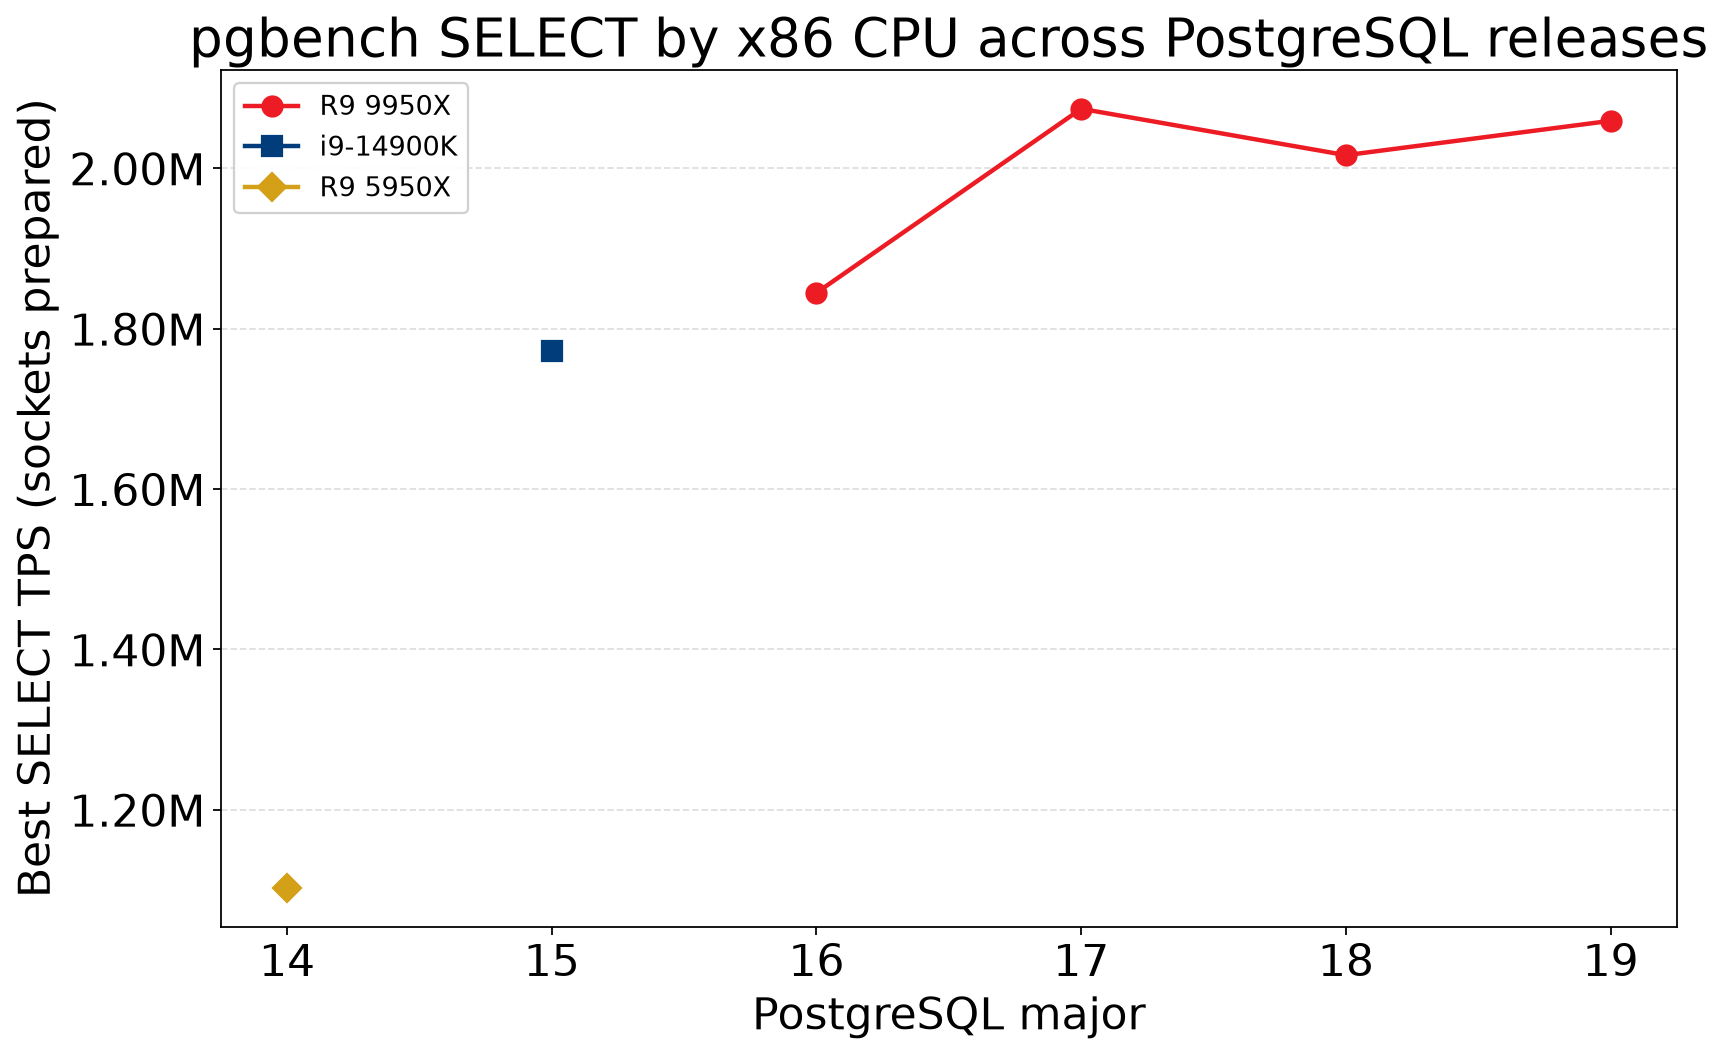
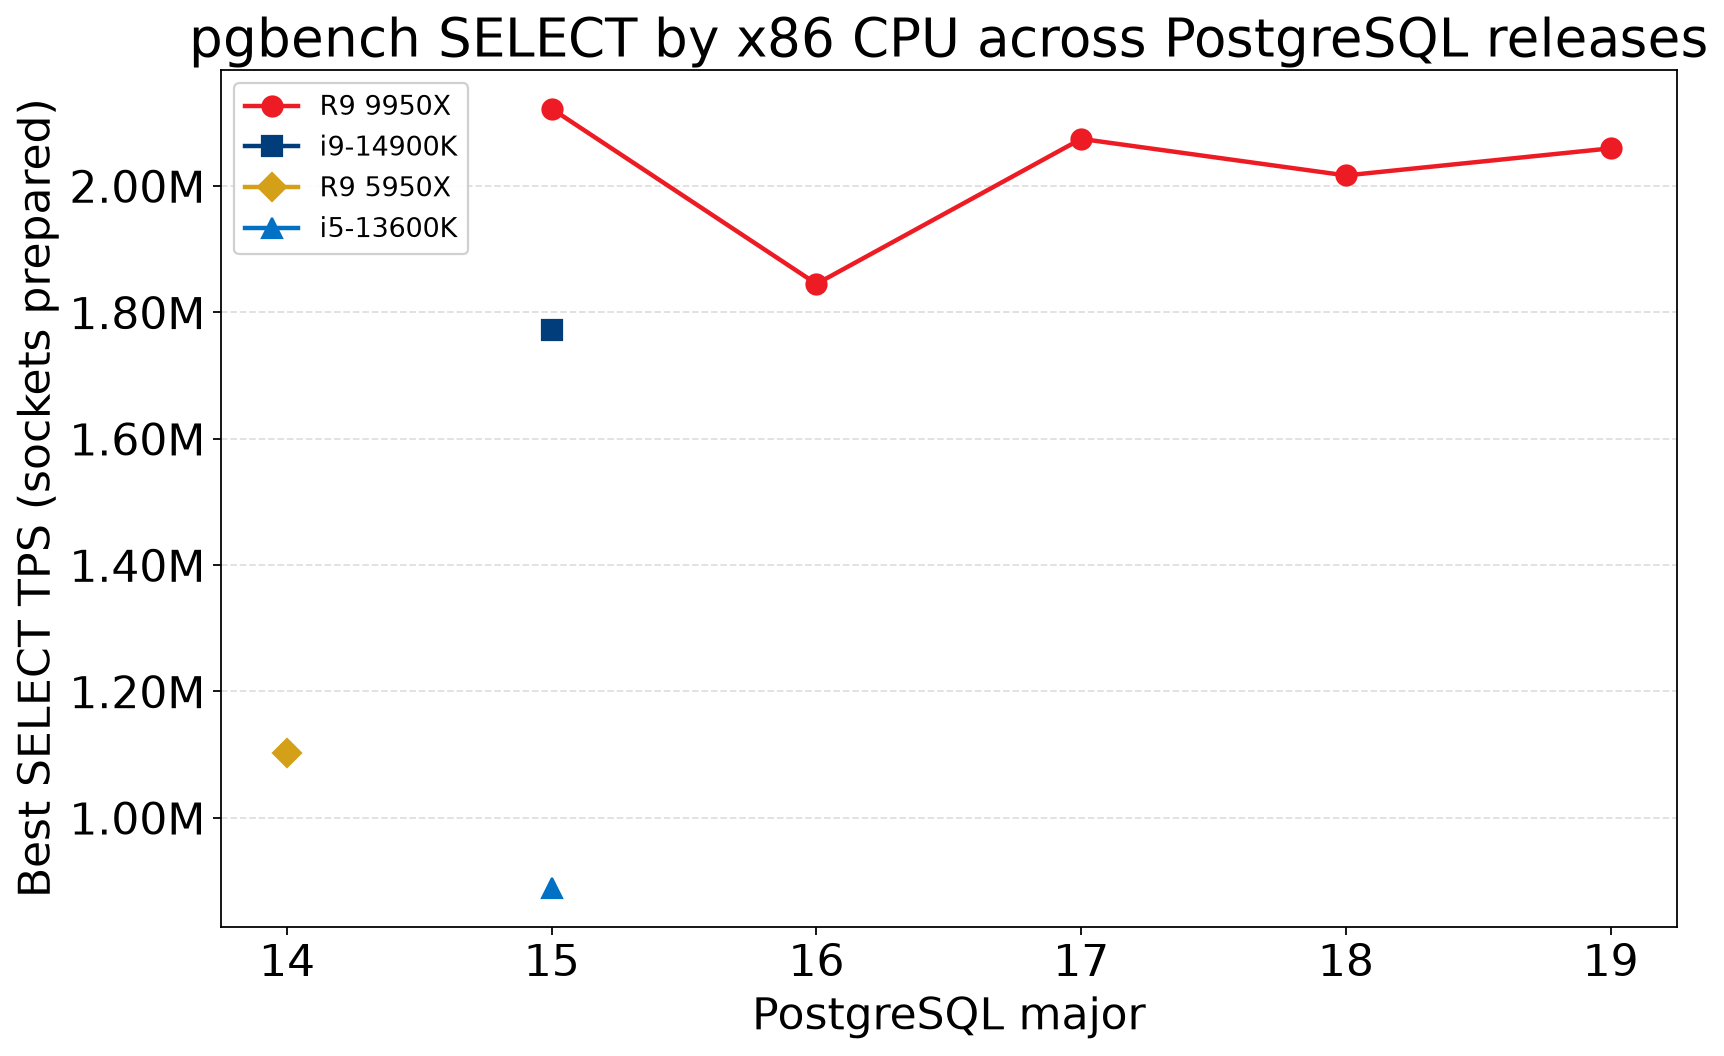
Replace SELECT history placeholders with siren 15–19 peaks.
Chart and leaderboards now use real sockets-prepared TPS; SQL reads tests after download. Note PG15’s fantasy-face win, and document mid-cycle publish framing for shared_buffers retunes.

diff --git a/reports/select-history.py b/reports/select-history.py
@@ -5,7 +5,8 @@ pgbench SELECT TPS history by CPU across PostgreSQL majors.
 Only the sockets-prepared face — matching the public leaderboard cell.
 Face comes from tests.conn_method when present, else from set/batch names
 (older archives had no conn column). CPU labels reuse the OSM history
-reconstruction rules.
+reconstruction rules. SQL reads tests/testset directly (after ./download);
+a submission rebuild is not required for this chart.
 
 Usage:
   MPLBACKEND=Agg MPLCONFIGDIR="$PWD/.matplotlib-cache" \\
@@ -70,34 +71,16 @@ CPU_COLORS: dict[str, str] = {
 
 MARKERS = ("o", "s", "D", "^", "v", "P", "X", "*", "h", "p")
 
-# Provisional sockets-prepared peaks until the matching set lands in results.
-# Dropped automatically once a real row exists for the same cpu × major.
-PLACEHOLDER_POINTS: list[dict] = [
-    {
-        "cpu_hist": "R9 9950X",
-        "major": 16,
-        "tps": 1_844_854,
-        "server": "siren",
-        "batch_id": None,
-        "batch": "placeholder PG16 sockets prepared",
-        "conn": "sockets prepared",
-    },
-    {
-        "cpu_hist": "R9 9950X",
-        "major": 17,
-        "tps": 2_074_343,
-        "server": "siren",
-        "batch_id": None,
-        "batch": "placeholder PG17 sockets prepared",
-        "conn": "sockets prepared",
-    },
-]
+# Optional provisional points if a cpu × major cell is still missing from
+# results. Empty once siren four-face SELECT covers 15–19 (2026-10-26).
+PLACEHOLDER_POINTS: list[dict] = []
 
 # Omit from the published higher-highs chart (archives kept; see Leaderboards note).
-# (cpu_hist, major) — known-bad logging tax; suspect old twilight pin.
+# (cpu_hist, major) — known-bad logging tax; suspect old twilight pin (siren
+# PG16 four-face is the modern 16 point now).
 SKIP_CPU_MAJOR: set[tuple[str, int]] = {
     ("R9 5950X", 15),  # log_min_duration_statement=0 false negative
-    ("i9-14900K", 16),  # suspect; replace with siren four-face when collected
+    ("i9-14900K", 16),  # suspect archive; siren 9950X PG16 replaces it on the chart
 }
 
 

diff --git a/.agents/skills/pg-release-runs/SKILL.md b/.agents/skills/pg-release-runs/SKILL.md
@@ -11,6 +11,29 @@ disable-model-invocation: true
 
 # Release study runs
 
+## Publish cycle (two snapshots)
+
+The public cadence is roughly **two years between “middle” study campaigns**,
+with two getbent.io snapshots per major:
+
+1. **Release snapshot** — fair, unified configs (same `shared_buffers`,
+   durability corners, SELECT faces) so CPUs and majors compare cleanly.
+   19rc1 is that snapshot for PG19.
+2. **Mid-cycle studies** — *after* that release snapshot, still inside the
+   publish cycle: GUC retunes, OS upgrades, hardware swaps, Planet refresh,
+   packing experiments. This is where `shared_buffers` 48→32 and Study 3
+   belong. A new Ubuntu/Debian release can eat most of a mid-cycle (years
+   that have one). PG18’s mid-cycle was largely the multi-process GIS /
+   osm2pgsql fallout, so little else moved.
+3. **Final snapshot** — before the next major’s release work; freeze what
+   the mid-cycle learned. These skills came online while Greg was finishing
+   the **PG18 final snapshot**; they document a cycle that was already in
+   motion.
+
+“Post release-snapshot” **is** mid-publish, not “publishing is over.” Do not
+retune the unified fair cells until the release snapshot is frozen; then open
+mid-cycle adjustments deliberately.
+
 A release cycle starts with **no studies**. When a topic comes up (a new
 GUC, a suspected regression, new hardware, an OS setting), a study is opened by
 flagging test sets with `newset` on each machine that will take part. Several
@@ -531,18 +554,19 @@ Fleet notes (update as needed):
 
 ## PG19 study sequence
 
-Ordered topics for this cycle. Finish (or park with enough data to publish)
-before opening the next; do not fan out a second matrix on PG18.
+Ordered mid-cycle topics after the **19rc1 release snapshot**. Finish (or
+park with enough data) before opening the next; do not fan out a second
+matrix on PG18. OS upgrades and Planet refresh sit in the same window.
 
 1. **Durability and WAL volume vs throughput** (open now — first PG19 study)
 2. **Checksum overhead** (`data_checksums` on vs off) — deferred from PG18
-3. **Node cache vs `shared_buffers`** (after durable baselines match across hosts)
+3. **Node cache vs `shared_buffers`** (48→32 on `osm-mem-128`; after durable baselines match)
 4. **`maintenance_work_mem` sweep** (after memory packing is settled)
 
-## After 19rc1 wrap: OS upgrades (siren, twilight)
+## After 19rc1 release snapshot: OS upgrades (siren, twilight)
 
-Do **not** start this until the 19rc1 results and experiments have wrapped
-(siren dump, twilight set 119 SELECT+OSM, abbey WAL/fsync 2×2, court set 8,
+Mid-cycle work — do **not** start until the release-snapshot cells have wrapped
+(siren dump, twilight set 119 SELECT+OSM + 128G corners, abbey WAL/fsync 2×2, court set 8,
 OSM Power Spark cell as needed). Then:
 
 1. Upgrade **siren** and **twilight** to the new OS releases (Greg names
@@ -637,6 +661,15 @@ four (siren, twilight, abbey, court) on PG19 when practical; do not block the
 memory study forever on court if the others already match.
 
 **Question.** The PG17 OSM config was a local maximum: high memory use that delivered peak throughput. Parallel GIN / index work in PG18 destabilized that peak (see the final PG18 retune commit). On 128GB hosts the node-cache phase packs `osm2pgsql` RSS (~60GB at scale 75000), `shared_buffers` (48GB in `osm-mem-128`), and shared memory into RAM and spills into the default ~15GB swap. When the loader enters the index phase it **drops the node cache**; Postgres pages that were pushed out are not pulled back automatically, then `maintenance_work_mem` × parallel maintenance workers allocates on top. Suspect the fix is to shrink **either** the osm2pgsql node cache (`scale` / `OSMNODECACHE` in `params`) **or** `shared_buffers` (`osm-mem-*`), not to keep chasing the PG17 packing.
+
+**2026-10-26 — PG19 mid-cycle (after 19rc1 release snapshot).** Keep
+**48GB** on the frozen fair comparison cells. In this mid-cycle window, cut
+`osm-mem-128` `shared_buffers` **48 → 32GB** (and revisit
+`effective_cache_size`) so 128GB-class packing has headroom — court OOMed
+osm2pgsql mid-Relations on ~122 Gi with only 16 G swap; twilight survives
+the same config with more swap / a few more GiB. Change the conf.d tier
+once, rebaseline, and carry the winner into the **final snapshot** before
+the next major.
 
 **How to run it.** Explore the matrix on **twilight** first (agent-driven once
 Greg points at it). `./newset` with a shared description prefix; change one

diff --git a/.cursor/skills/pg-release-runs/SKILL.md b/.cursor/skills/pg-release-runs/SKILL.md
@@ -11,6 +11,29 @@ disable-model-invocation: true
 
 # Release study runs
 
+## Publish cycle (two snapshots)
+
+The public cadence is roughly **two years between “middle” study campaigns**,
+with two getbent.io snapshots per major:
+
+1. **Release snapshot** — fair, unified configs (same `shared_buffers`,
+   durability corners, SELECT faces) so CPUs and majors compare cleanly.
+   19rc1 is that snapshot for PG19.
+2. **Mid-cycle studies** — *after* that release snapshot, still inside the
+   publish cycle: GUC retunes, OS upgrades, hardware swaps, Planet refresh,
+   packing experiments. This is where `shared_buffers` 48→32 and Study 3
+   belong. A new Ubuntu/Debian release can eat most of a mid-cycle (years
+   that have one). PG18’s mid-cycle was largely the multi-process GIS /
+   osm2pgsql fallout, so little else moved.
+3. **Final snapshot** — before the next major’s release work; freeze what
+   the mid-cycle learned. These skills came online while Greg was finishing
+   the **PG18 final snapshot**; they document a cycle that was already in
+   motion.
+
+“Post release-snapshot” **is** mid-publish, not “publishing is over.” Do not
+retune the unified fair cells until the release snapshot is frozen; then open
+mid-cycle adjustments deliberately.
+
 A release cycle starts with **no studies**. When a topic comes up (a new
 GUC, a suspected regression, new hardware, an OS setting), a study is opened by
 flagging test sets with `newset` on each machine that will take part. Several
@@ -531,18 +554,19 @@ Fleet notes (update as needed):
 
 ## PG19 study sequence
 
-Ordered topics for this cycle. Finish (or park with enough data to publish)
-before opening the next; do not fan out a second matrix on PG18.
+Ordered mid-cycle topics after the **19rc1 release snapshot**. Finish (or
+park with enough data) before opening the next; do not fan out a second
+matrix on PG18. OS upgrades and Planet refresh sit in the same window.
 
 1. **Durability and WAL volume vs throughput** (open now — first PG19 study)
 2. **Checksum overhead** (`data_checksums` on vs off) — deferred from PG18
-3. **Node cache vs `shared_buffers`** (after durable baselines match across hosts)
+3. **Node cache vs `shared_buffers`** (48→32 on `osm-mem-128`; after durable baselines match)
 4. **`maintenance_work_mem` sweep** (after memory packing is settled)
 
-## After 19rc1 wrap: OS upgrades (siren, twilight)
+## After 19rc1 release snapshot: OS upgrades (siren, twilight)
 
-Do **not** start this until the 19rc1 results and experiments have wrapped
-(siren dump, twilight set 119 SELECT+OSM, abbey WAL/fsync 2×2, court set 8,
+Mid-cycle work — do **not** start until the release-snapshot cells have wrapped
+(siren dump, twilight set 119 SELECT+OSM + 128G corners, abbey WAL/fsync 2×2, court set 8,
 OSM Power Spark cell as needed). Then:
 
 1. Upgrade **siren** and **twilight** to the new OS releases (Greg names
@@ -637,6 +661,15 @@ four (siren, twilight, abbey, court) on PG19 when practical; do not block the
 memory study forever on court if the others already match.
 
 **Question.** The PG17 OSM config was a local maximum: high memory use that delivered peak throughput. Parallel GIN / index work in PG18 destabilized that peak (see the final PG18 retune commit). On 128GB hosts the node-cache phase packs `osm2pgsql` RSS (~60GB at scale 75000), `shared_buffers` (48GB in `osm-mem-128`), and shared memory into RAM and spills into the default ~15GB swap. When the loader enters the index phase it **drops the node cache**; Postgres pages that were pushed out are not pulled back automatically, then `maintenance_work_mem` × parallel maintenance workers allocates on top. Suspect the fix is to shrink **either** the osm2pgsql node cache (`scale` / `OSMNODECACHE` in `params`) **or** `shared_buffers` (`osm-mem-*`), not to keep chasing the PG17 packing.
+
+**2026-10-26 — PG19 mid-cycle (after 19rc1 release snapshot).** Keep
+**48GB** on the frozen fair comparison cells. In this mid-cycle window, cut
+`osm-mem-128` `shared_buffers` **48 → 32GB** (and revisit
+`effective_cache_size`) so 128GB-class packing has headroom — court OOMed
+osm2pgsql mid-Relations on ~122 Gi with only 16 G swap; twilight survives
+the same config with more swap / a few more GiB. Change the conf.d tier
+once, rebaseline, and carry the winner into the **final snapshot** before
+the next major.
 
 **How to run it.** Explore the matrix on **twilight** first (agent-driven once
 Greg points at it). `./newset` with a shared description prefix; change one

diff --git a/docs/leaderboards.md b/docs/leaderboards.md
@@ -101,11 +101,13 @@ Regenerate: `MPLBACKEND=Agg MPLCONFIGDIR="$PWD/.matplotlib-cache" .venv-graph/bi
 
 ### History
 
-Best **sockets prepared** SELECT TPS per **x86** CPU across PostgreSQL majors — the same face as the starter board above. Older archives rarely stored `conn_method`; those points come from set names that said `Sockets Prepared`. The series is thin (rising 5950X, twilight i9, siren 9950X) but enough to anchor a trend. The chart omits the known-bad **5950X PG15** and suspect **14900K PG16** archive peaks so the higher-highs line stays readable; finishing the modern story is a four-face run on **siren** for **PG15**. Provisional **9950X** peaks until those sets import: **PG16** **1,844,854** TPS, **PG17** **2,074,343** TPS — the chart drops each placeholder once a real row lands.
+Best **sockets prepared** SELECT TPS per **x86** CPU across PostgreSQL majors — the same face as the starter board above. Older archives rarely stored `conn_method`; those points come from set names that said `Sockets Prepared`. The series is thin (rising 5950X, twilight i9, siren 9950X) but enough to anchor a trend. The chart omits the known-bad **5950X PG15** and suspect **14900K PG16** archive peaks so the higher-highs line stays readable. Modern **9950X** four-face cells on **siren** fill **15–19**: PG15 **2.12M**, PG16 **1.84M**, PG17 **2.07M**, PG18 **2.02M**, PG19rc1 **2.06M** (peak of two `SETTIMES` at 32 clients).
 
 ![pgbench SELECT sockets-prepared history by x86 CPU]({{ '/images/select-history.png' | relative_url }})
 
 Long-term analysis here looks just for higher highs over time. That is why the analysis structure is a leaderboard. The test parameters have tightened over time; the results for PG14–16 were very much still works in progress.
+
+PG15’s strong sockets-prepared peak on the 9950X is the fantasy face again: an older, simpler executor wins a pure SELECT microbenchmark. In production the features added since then pay for themselves — this chart is not an argument that newer majors are bloat.
 
 The steep PG15 drop on the 5950X (not plotted) was a **false negative**, not a Postgres regression. The server had `log_min_duration_statement=0`, which drowned the workload in logging; it was [reported to hackers](https://www.postgresql.org/message-id/CAHLJuCUFGcDb1OkBcLtuWoXv5aPbWMj9uSm3q-AR3CA9CcYp_Q%40mail.gmail.com) and then rescinded once profile dumps made the mistake obvious. The archive row stays; that incident is when this lab got serious about recording settings with every run.
 
